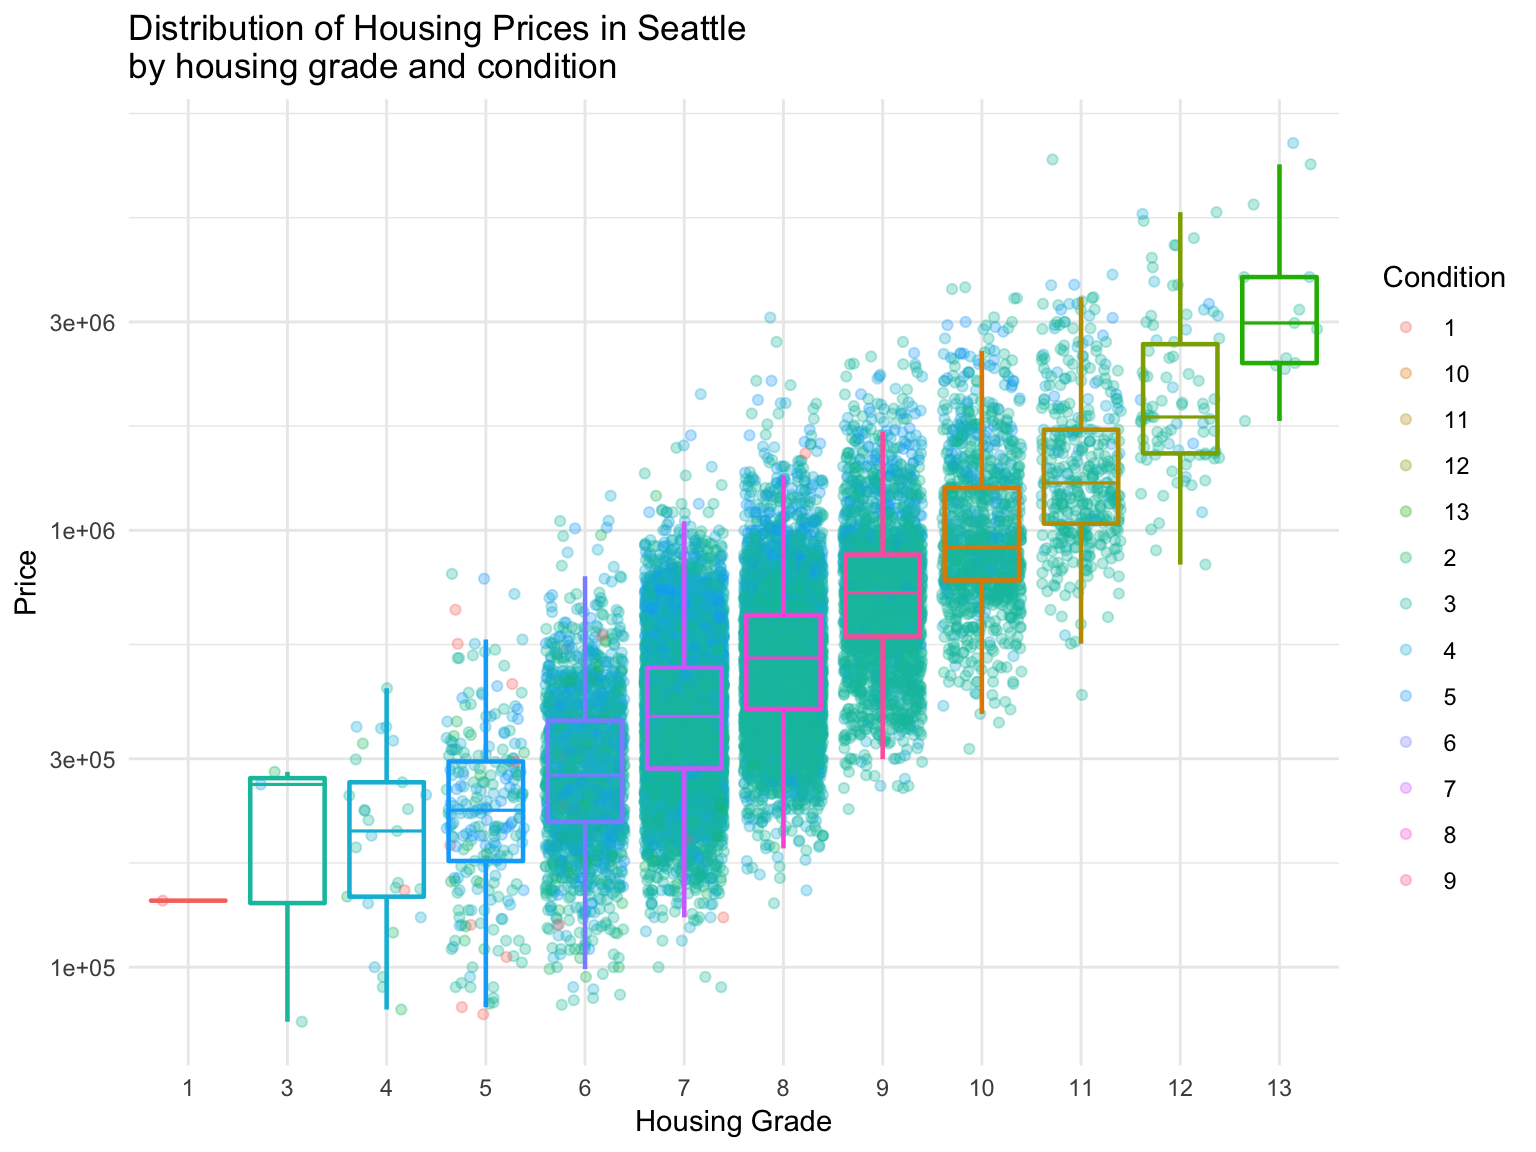
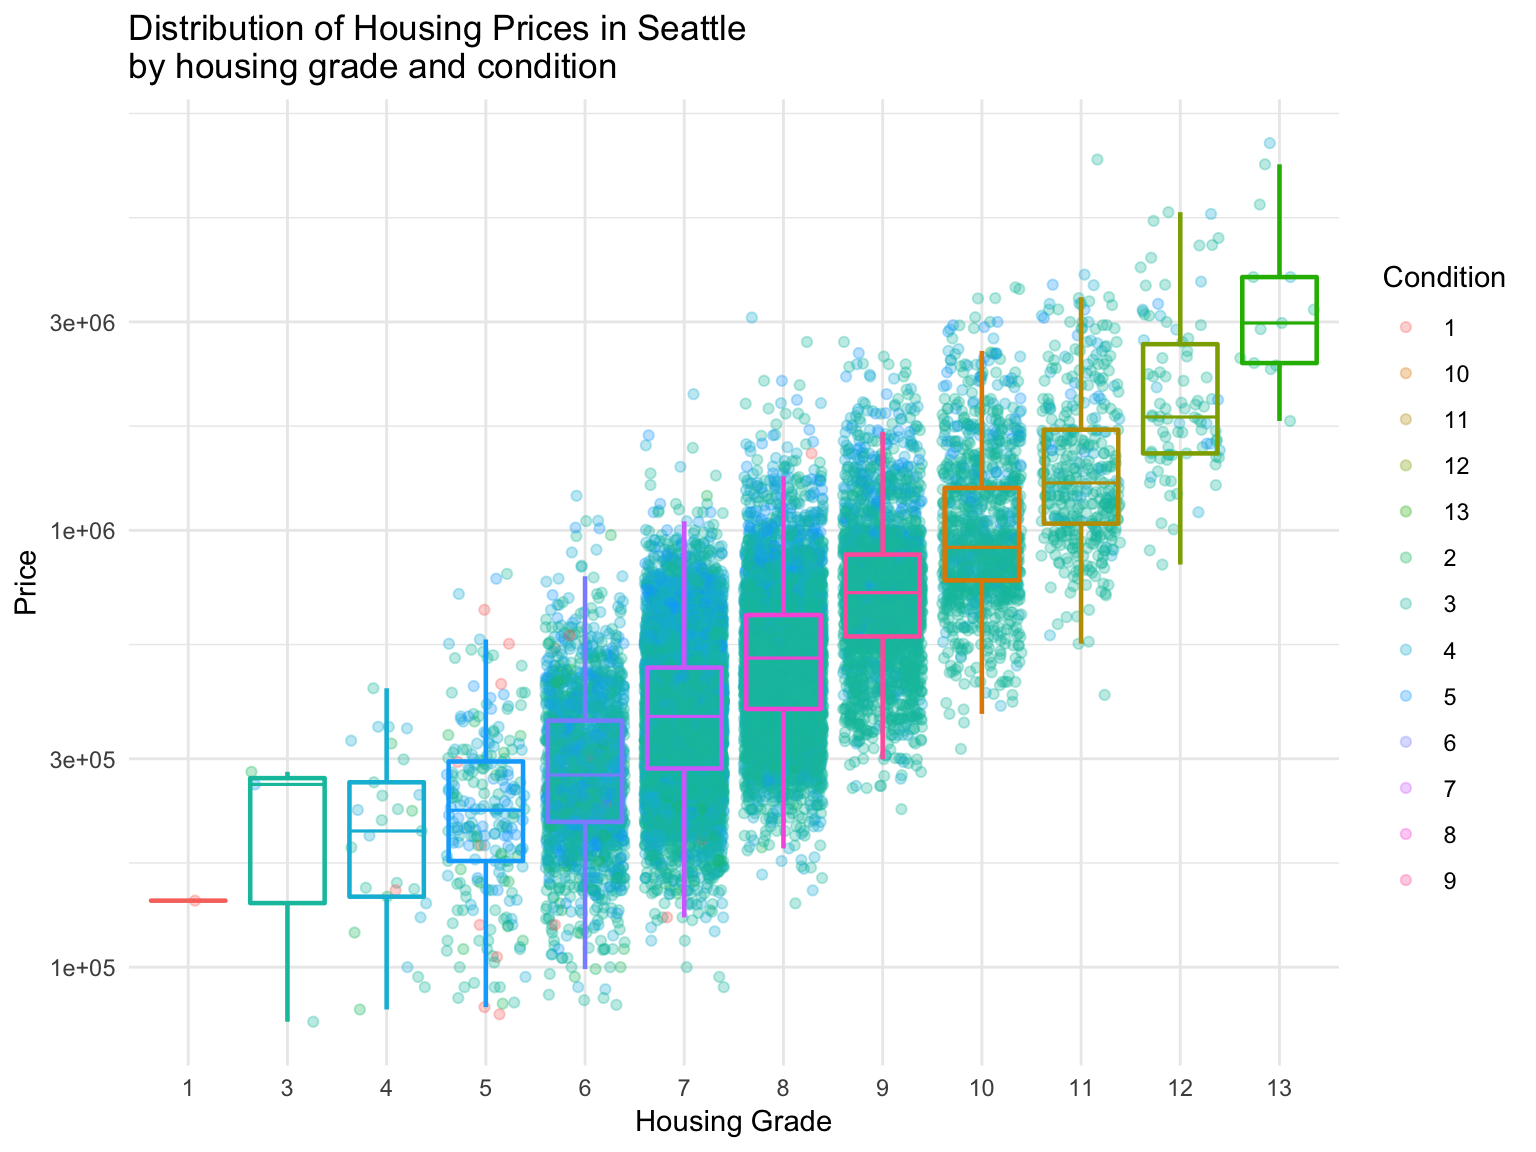
fix plot legend, add glimpse of data

diff --git a/README.md b/README.md
@@ -1,18 +1,61 @@
 
-Seattle Housing Prices
-----------------------
+    ## 
+    ## Attaching package: 'dplyr'
 
-<img src="README_figs/README-unnamed-chunk-2-1.png" width="768" />
+    ## The following objects are masked from 'package:stats':
+    ## 
+    ##     filter, lag
+
+    ## The following objects are masked from 'package:base':
+    ## 
+    ##     intersect, setdiff, setequal, union
+
+House Sales in Seattle (King County)
+------------------------------------
+
+The Seattle House Sale data, which contains house sale prices for King County, which includes Seattle. It includes homes sold between May 2014 and May 2015 can be sourced on [kaggle.com](https://www.kaggle.com/harlfoxem/housesalesprediction).
+
+The following presents an exploratory analysis of the data.
+
+### The Data
 
 ``` r
-library(ggplot2)
-library(moderndive)
-houses <- house_prices
+glimpse(houses)
+## Observations: 21,613
+## Variables: 21
+## $ id            <chr> "7129300520", "6414100192", "5631500400", "2487200…
+## $ date          <dttm> 2014-10-13, 2014-12-09, 2015-02-25, 2014-12-09, 2…
+## $ price         <dbl> 221900, 538000, 180000, 604000, 510000, 1225000, 2…
+## $ bedrooms      <int> 3, 3, 2, 4, 3, 4, 3, 3, 3, 3, 3, 2, 3, 3, 5, 4, 3,…
+## $ bathrooms     <dbl> 1.00, 2.25, 1.00, 3.00, 2.00, 4.50, 2.25, 1.50, 1.…
+## $ sqft_living   <int> 1180, 2570, 770, 1960, 1680, 5420, 1715, 1060, 178…
+## $ sqft_lot      <int> 5650, 7242, 10000, 5000, 8080, 101930, 6819, 9711,…
+## $ floors        <dbl> 1.0, 2.0, 1.0, 1.0, 1.0, 1.0, 2.0, 1.0, 1.0, 2.0, …
+## $ waterfront    <lgl> FALSE, FALSE, FALSE, FALSE, FALSE, FALSE, FALSE, F…
+## $ view          <int> 0, 0, 0, 0, 0, 0, 0, 0, 0, 0, 0, 0, 0, 0, 0, 3, 0,…
+## $ condition     <fct> 3, 3, 3, 5, 3, 3, 3, 3, 3, 3, 3, 4, 4, 4, 3, 3, 3,…
+## $ grade         <fct> 7, 7, 6, 7, 8, 11, 7, 7, 7, 7, 8, 7, 7, 7, 7, 9, 7…
+## $ sqft_above    <int> 1180, 2170, 770, 1050, 1680, 3890, 1715, 1060, 105…
+## $ sqft_basement <int> 0, 400, 0, 910, 0, 1530, 0, 0, 730, 0, 1700, 300, …
+## $ yr_built      <int> 1955, 1951, 1933, 1965, 1987, 2001, 1995, 1963, 19…
+## $ yr_renovated  <int> 0, 1991, 0, 0, 0, 0, 0, 0, 0, 0, 0, 0, 0, 0, 0, 0,…
+## $ zipcode       <fct> 98178, 98125, 98028, 98136, 98074, 98053, 98003, 9…
+## $ lat           <dbl> 47.5112, 47.7210, 47.7379, 47.5208, 47.6168, 47.65…
+## $ long          <dbl> -122.257, -122.319, -122.233, -122.393, -122.045, …
+## $ sqft_living15 <int> 1340, 1690, 2720, 1360, 1800, 4760, 2238, 1650, 17…
+## $ sqft_lot15    <int> 5650, 7639, 8062, 5000, 7503, 101930, 6819, 9711, …
+```
+
+<img src="README_figs/README-unnamed-chunk-3-1.png" width="768" />
+
+<img src="README_figs/README-unnamed-chunk-4-1.png" width="768" />
+
+``` r
 ggplot(houses, aes(x = grade, y = price)) +
-   geom_jitter(aes(col = condition), alpha = 0.3) +
-   geom_boxplot(aes(col = grade), 
+   geom_jitter(aes(col = condition), alpha = 0.3, size = 0.75) +
+   geom_boxplot(color = "gray40",
                 alpha = 0.01, 
-                lwd = .8,
+                lwd = .7,
                 fatten = .7,
                 outlier.shape = NA, 
                 show.legend = FALSE) +
